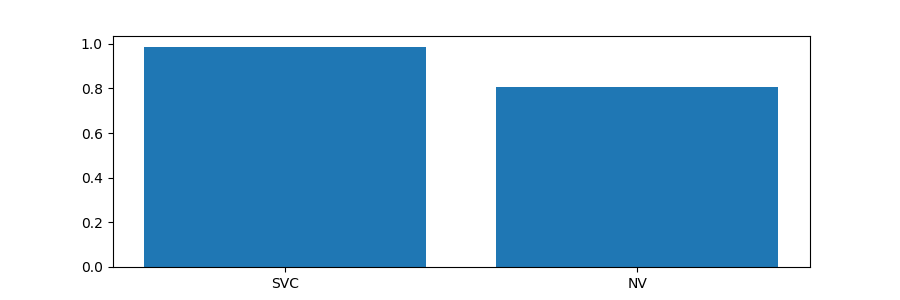
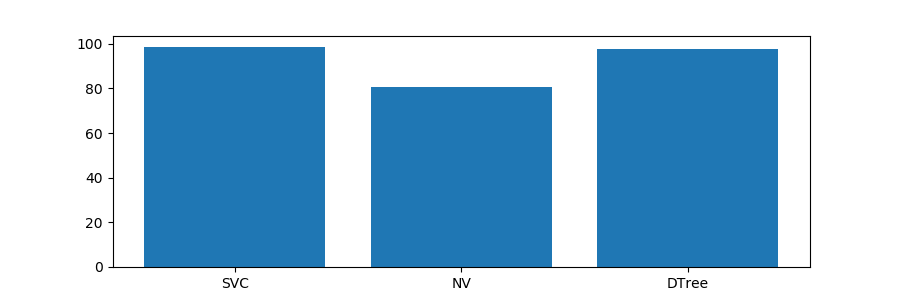
Fixed the multiplity code

diff --git a/app.py b/app.py
@@ -82,19 +82,19 @@ def results_action():
         Accuracy_matrix=[]
         Name_matrix=[]
         if accuracy_SVC != 0:
-            Accuracy_matrix.append(accuracy_SVC)
+            Accuracy_matrix.append(100*accuracy_SVC)
             Name_matrix.append('SVC')
         if accuracy_kNN != 0:
-            Accuracy_matrix.append(accuracy_kNN)
+            Accuracy_matrix.append(100*accuracy_kNN)
             Name_matrix.append('kNN')
         if accuracy_NV != 0:
-            Accuracy_matrix.append(accuracy_NV)
+            Accuracy_matrix.append(100*accuracy_NV)
             Name_matrix.append('NV')
         if accuracy_DTree != 0:
-            Accuracy_matrix.append(accuracy_DTree)
+            Accuracy_matrix.append(100*accuracy_DTree)
             Name_matrix.append('DTree')
         if accuracy_RF != 0:
-            Accuracy_matrix.append(accuracy_RF)
+            Accuracy_matrix.append(100*accuracy_RF)
             Name_matrix.append('RF')
         plt.figure(figsize=(9, 3))
         plt.bar(Name_matrix,Accuracy_matrix)
